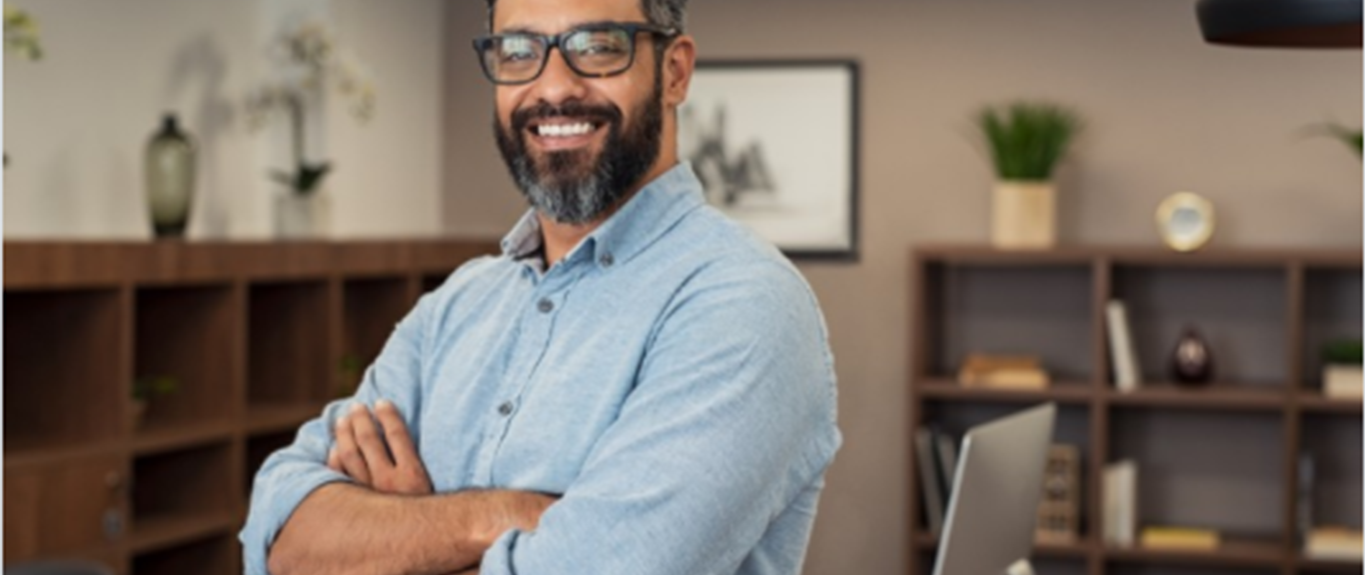
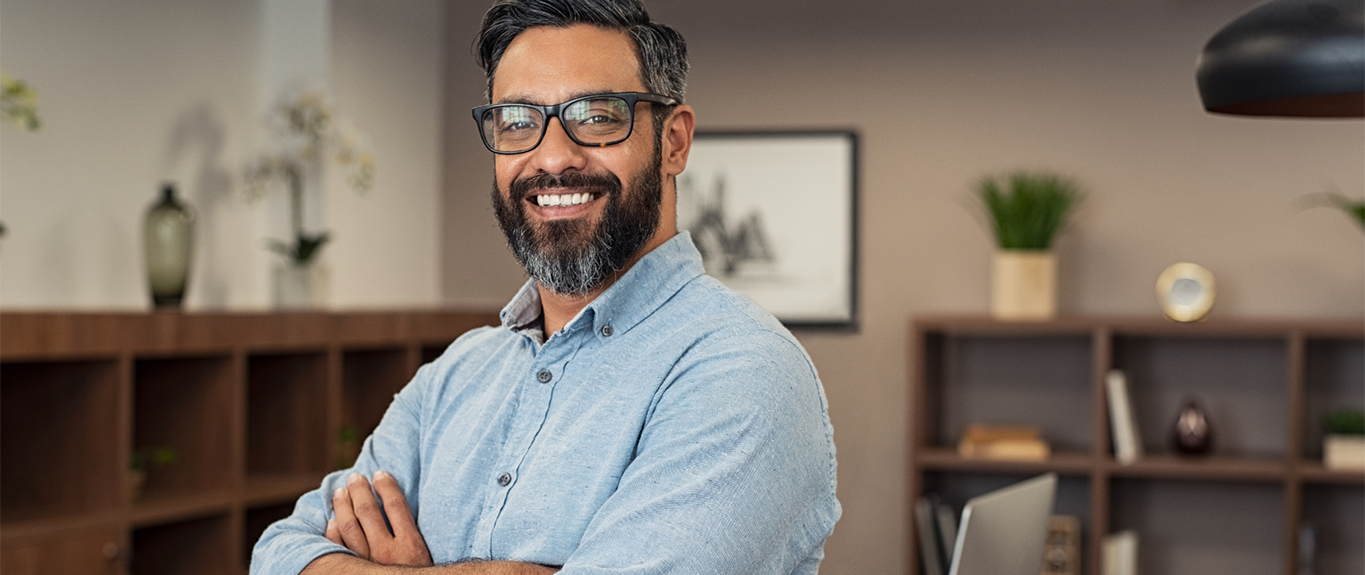
imagenes

diff --git a/index.html b/index.html
@@ -58,7 +58,7 @@
         <img src="assets/images/slideShow/1.jpg" class="sliderimg" alt="1" />
       </div>
       <div class="slider-slide">
-        <img src="assets/images/slideShow/2.png" class="sliderimg" alt="2" />
+        <img src="assets/images/slideShow/2.jpg" class="sliderimg" alt="2" />
       </div>
       <div class="slider-slide">
         <img src="assets/images/slideShow/3.png" class="sliderimg" alt="3" />
